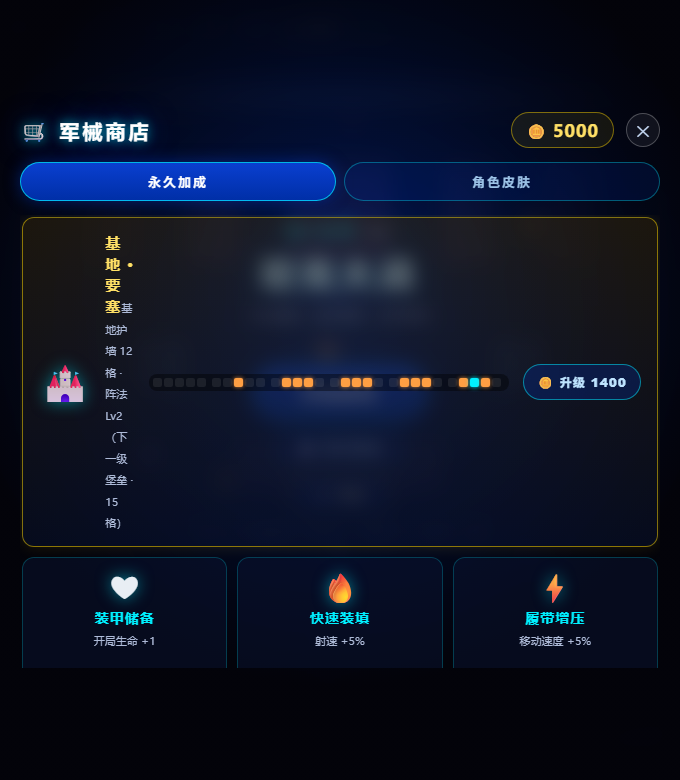
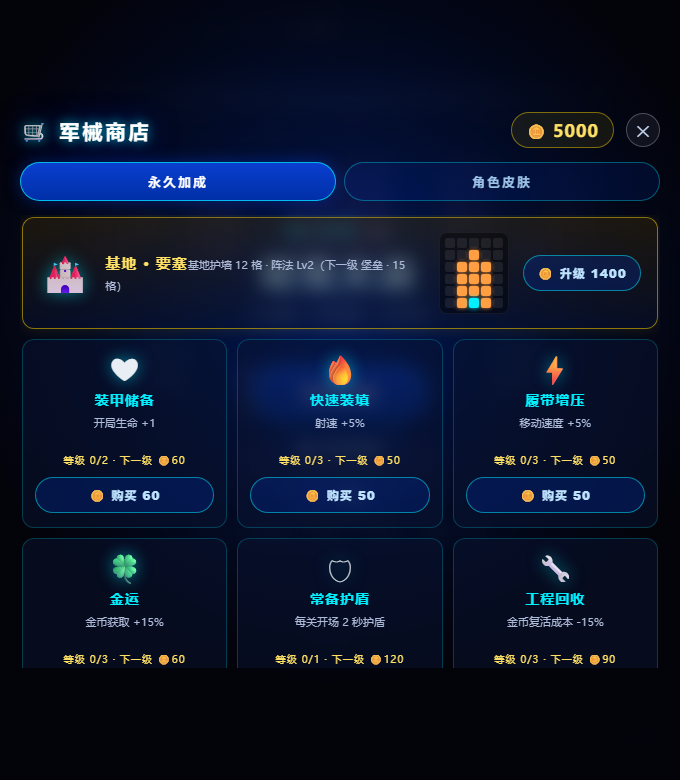
v0.1.16: 修复基地升级卡阵法预览显示
- 基地护墙阵法预览原被 CSS 排成一行（baseWallPrev 无换行），看不到网格
- 改为纵向 flex + 每行 bwRow 横向容器，6x5 真实网格展示阵法，四等级逐级增高变宽
- 格子 9px→10px、加细微描边，观感更清晰
- 回归 52/52 全过；base_shop_shot.png 重新生成；sw 缓存 v0115→v0116，版本 V1.15→V1.16

diff --git a/index.html b/index.html
@@ -555,8 +555,9 @@
   .shopItem.baseCard .siName { font-size: 15px; color: #ffe066; }
   .shopItem.baseCard .siDesc { min-height: 0; text-align: left; margin-top: 2px; }
   .shopItem.baseCard .siBtn { width: auto; min-width: 118px; margin-top: 0; flex: none; }
-  .baseWallPrev { display: flex; gap: 2px; padding: 4px; border-radius: 8px; background: rgba(0, 0, 0, 0.4); }
-  .baseWallPrev .bw { width: 9px; height: 9px; border-radius: 2px; }
+  .baseWallPrev { display: flex; flex-direction: column; gap: 2px; padding: 5px; border-radius: 8px; background: rgba(0, 0, 0, 0.4); border: 1px solid rgba(255, 255, 255, 0.06); }
+  .baseWallPrev .bwRow { display: flex; gap: 2px; }
+  .baseWallPrev .bw { width: 10px; height: 10px; border-radius: 2px; }
   .baseWallPrev .bw.on  { background: #ff9f43; box-shadow: 0 0 4px rgba(255, 159, 67, 0.8); }
   .baseWallPrev .bw.core { background: #00f0ff; box-shadow: 0 0 5px rgba(0, 240, 255, 0.9); }
   .baseWallPrev .bw.off { background: rgba(255, 255, 255, 0.08); }
@@ -703,7 +704,7 @@
 
   <div id="toast"></div>
   <div id="wxtip">点右上角 <b>···</b> → 发送给朋友</div>
-  <div id="mark">DESIGNED BY QIAN · V1.15</div>
+  <div id="mark">DESIGNED BY QIAN · V1.16</div>
 
   <div id="upgradeBox">
     <div class="upTitle">关卡完成 · 强化三选一</div>
@@ -3501,12 +3502,13 @@
     const maxDy = 5, maxDx = 2; // 预览网格范围（含基地中心）
     let prev = '<div class="baseWallPrev">';
     for (let dy = -maxDy; dy <= 0; dy++) {
+      prev += '<div class="bwRow">';
       for (let dx = -maxDx; dx <= maxDx; dx++) {
         const on = cells.some(([a, b]) => a === dy && b === dx);
         const core = dy === 0 && dx === 0;
         prev += '<div class="bw ' + (core ? 'core' : (on ? 'on' : 'off')) + '"></div>';
       }
-      prev += '<div style="width:2px"></div>';
+      prev += '</div>';
     }
     prev += '</div>';
     item.innerHTML = '<span class="siIcon">🏰</span>' +

diff --git a/sw.js b/sw.js
@@ -1,6 +1,6 @@
 /* QIAN 坦克大战 · Service Worker
    network-first 降级 cache：有网用最新，断网用缓存，实现离线可玩 */
-const CACHE = 'tank-battle-v0115';
+const CACHE = 'tank-battle-v0116';
 const ASSETS = [
   './',
   './index.html',

diff --git a/RELEASE_NOTES.md b/RELEASE_NOTES.md
@@ -1,3 +1,15 @@
+# v0.1.16 · 修复基地升级卡阵法预览显示
+
+> 基地升级卡的护墙阵法预览原来被 CSS 排成一行（`display:flex` 未换行），看不到阵法网格。已改为 6×5 真实网格。
+
+## 🐛 修复内容
+
+- **基地升级卡阵法预览**：`baseWallPrev` 从单行 flex 改为纵向 flex + 每行 `.bwRow` 横向容器，护墙阵法以 6 行 × 5 列网格正确展示
+- 格子尺寸 9px→10px、加细微描边，观感更清晰；四个等级（哨所/壁垒/要塞/堡垒）阵法逐级增高变宽，与 `BASE_LEVELS` 完全一致
+- 回归套件 52/52 全过；截图 `base_shop_shot.png` 重新生成
+
+---
+
 # v0.1.15 · 基地升级 + 商店技能强化 + 皮肤分级（稀有/史诗/传奇/限定）
 
 > 基地太脆老被自己打到？商店上架「基地升级」，砖护墙数量与阵法随等级变化；技能强化再加 3 个永久加成；皮肤全分级、上新 3 款花哨款。
